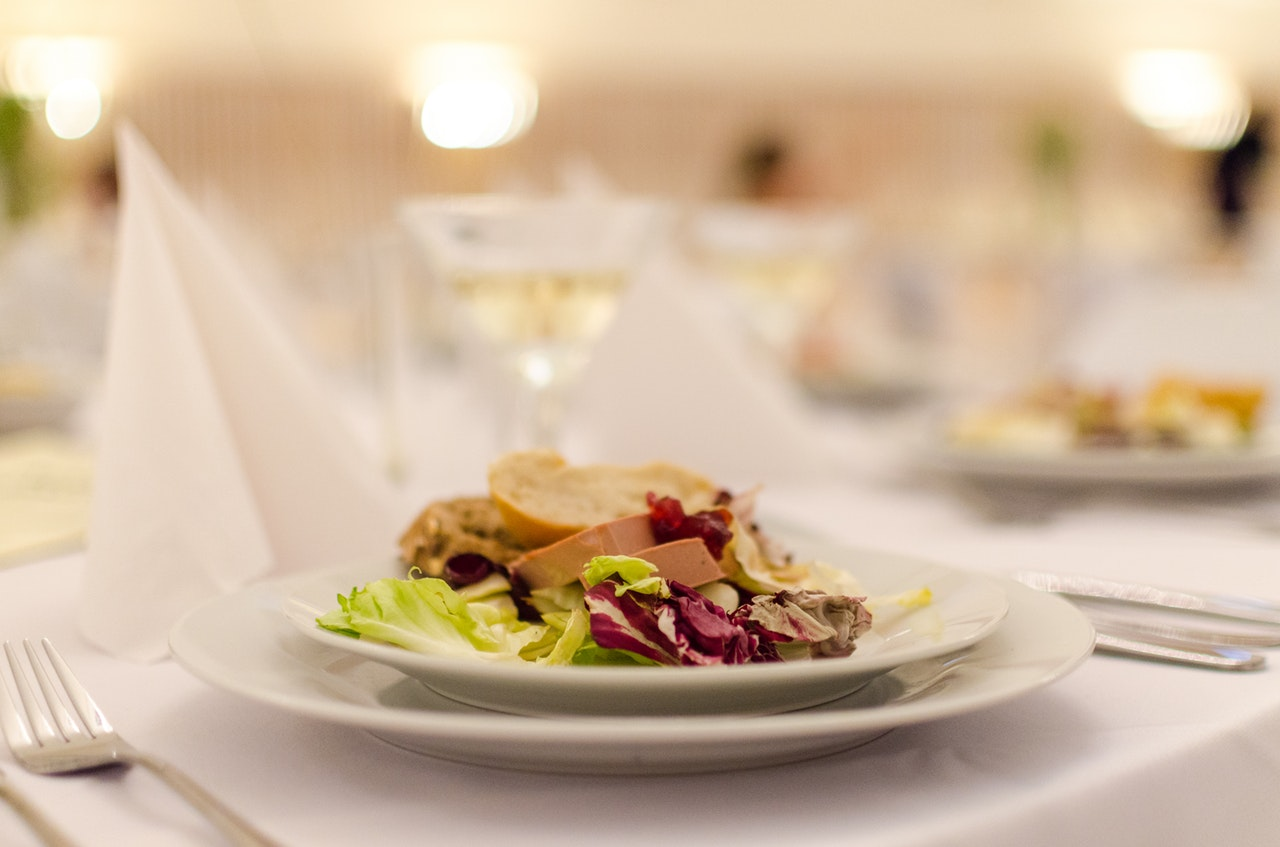
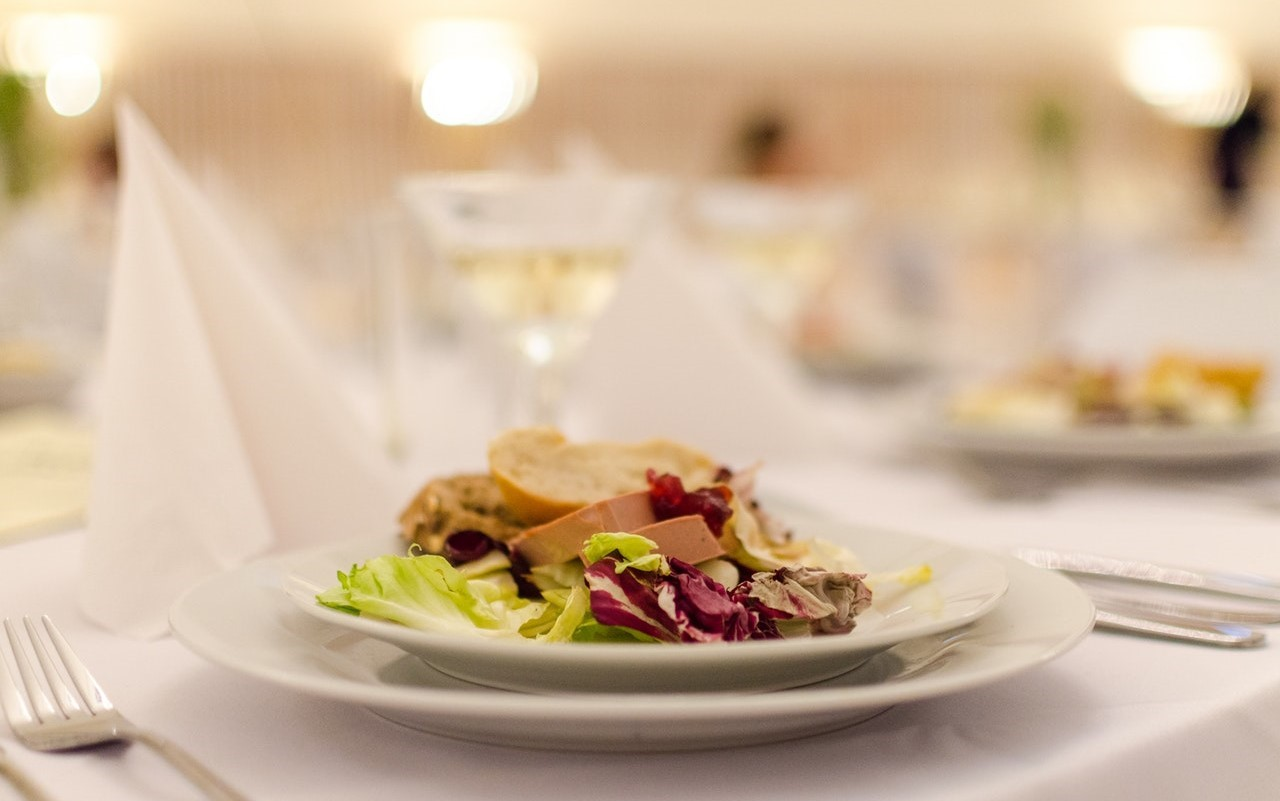
home page complete

diff --git a/templates/home.html b/templates/home.html
@@ -7,18 +7,25 @@
   <link rel="stylesheet" href="https://maxcdn.bootstrapcdn.com/bootstrap/3.3.7/css/bootstrap.min.css">
   <script src="https://ajax.googleapis.com/ajax/libs/jquery/3.3.1/jquery.min.js"></script>
   <script src="https://maxcdn.bootstrapcdn.com/bootstrap/3.3.7/js/bootstrap.min.js"></script>
+  <link href="https://fonts.googleapis.com/css?family=Bitter|Indie+Flower" rel="stylesheet">
   <style>
 
+
+        
         .navbar-brand{
-        	font-size: 35px
+        	font-size: 35px;
+        	font-style: oblique;
+        	font-family:serif;
         }
         #myCarousel {
         	position: relative;
         	text-align: center;
         	color: black;
-        	font-size: 50px
-        	
-        }
+        	font-size: 60px;
+        	font-family: 'Bitter', serif;
+        	}
+
+        
         .centered {
         	position: absolute;
         	top: 50%;
@@ -26,6 +33,16 @@
         	transform: translate(-50%, -50%);
         	
         	
+        }
+        img{
+        	display:block;
+        	margin-left: auto;
+        	margin-right: auto;
+        	height:99%;
+        	max-height: 551px;
+        	width:99%;
+        	max-width: 1280px;
+
         }
   
   </style>
